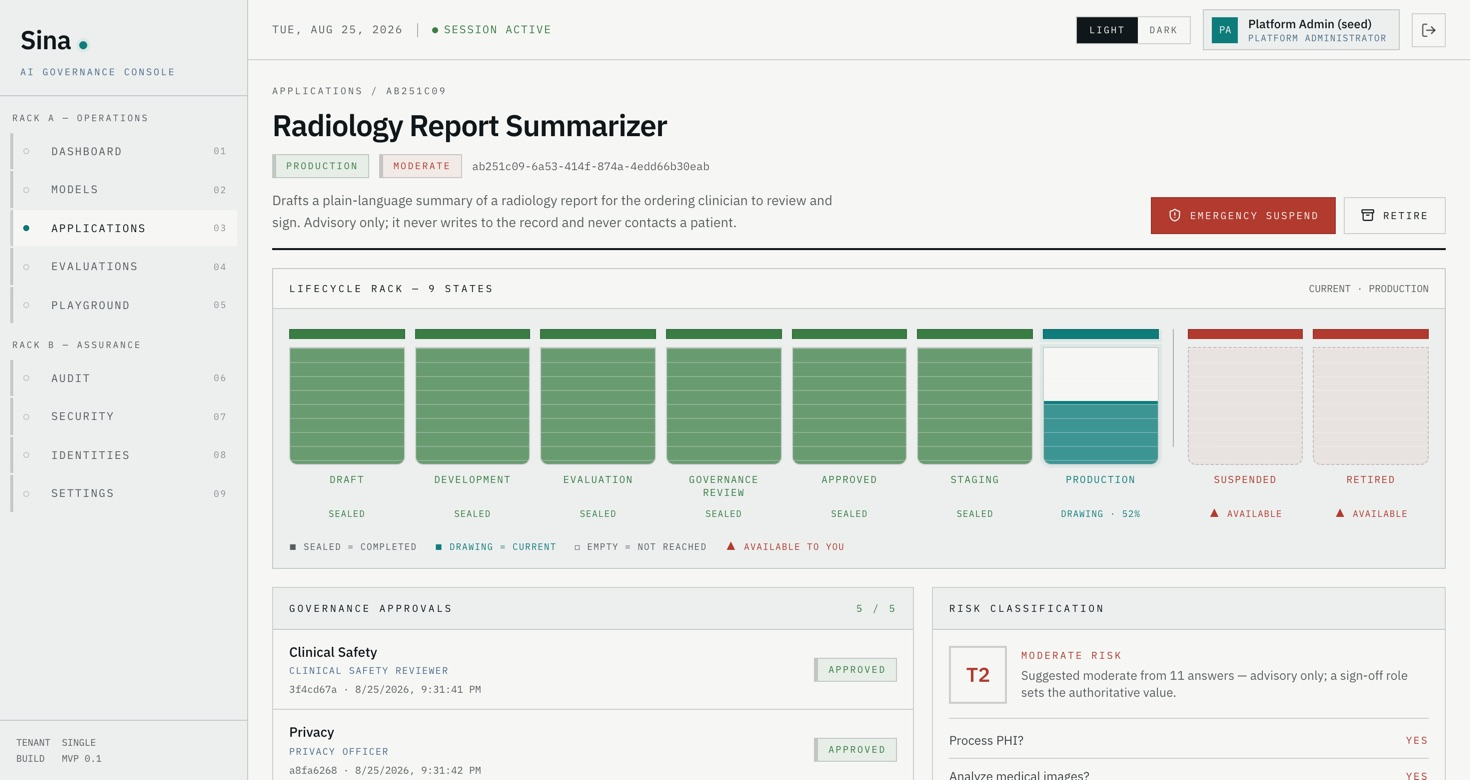
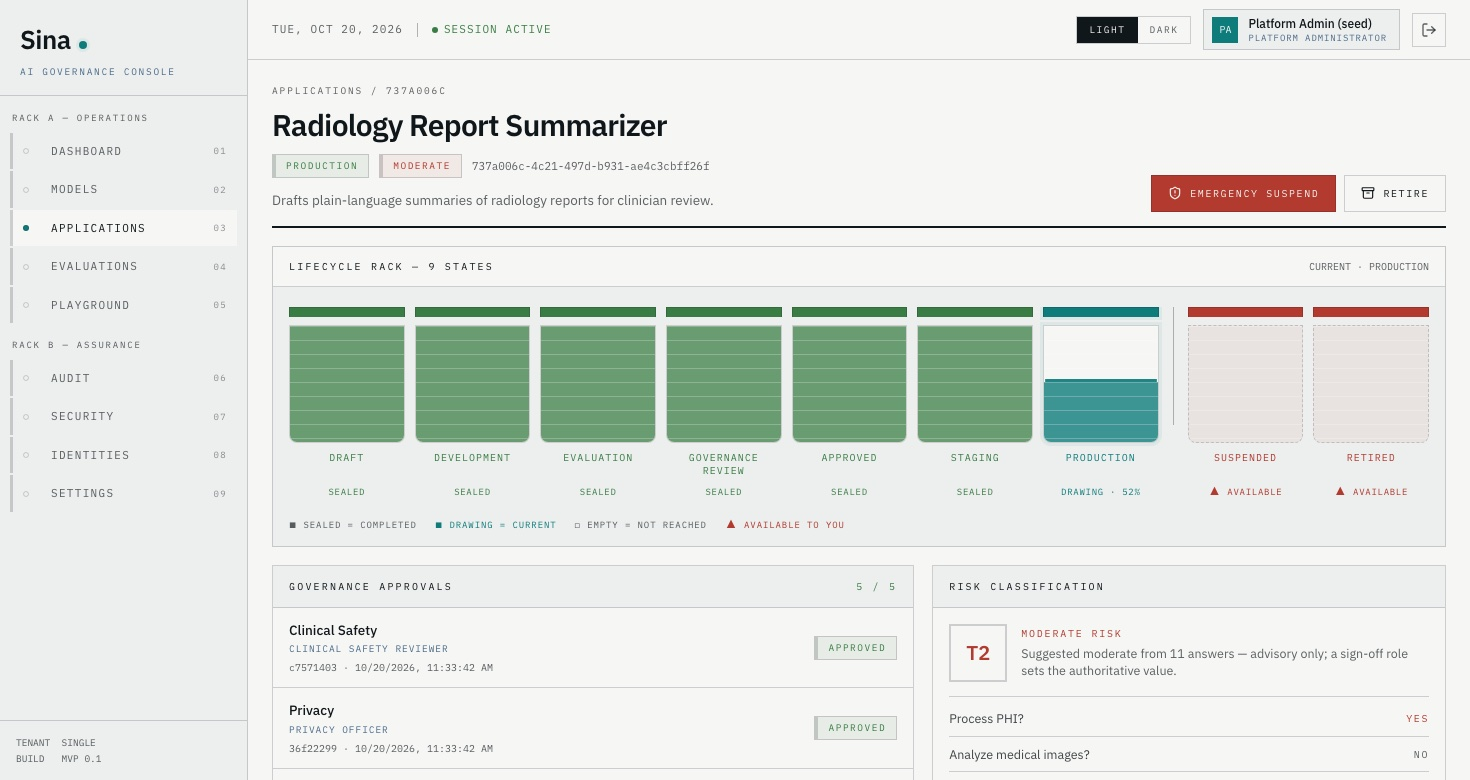
Reshoot the application and audit screenshots

diff --git a/README.md b/README.md
@@ -74,7 +74,7 @@ The API is at <http://localhost:8000>, with Swagger at `/docs`.
 
 ## Status
 
-MVP 0.1 is complete. It has 174 backend tests at 90% line coverage plus 47
+MVP 0.1 is complete. It has 182 backend tests at 90% line coverage plus 47
 frontend tests, and it was verified against real infrastructure rather than
 mocks: real Keycloak tokens, real ClamAV scans, real Ollama inference, a real
 governance approval cycle. All seven backend modules are finished, as is the
